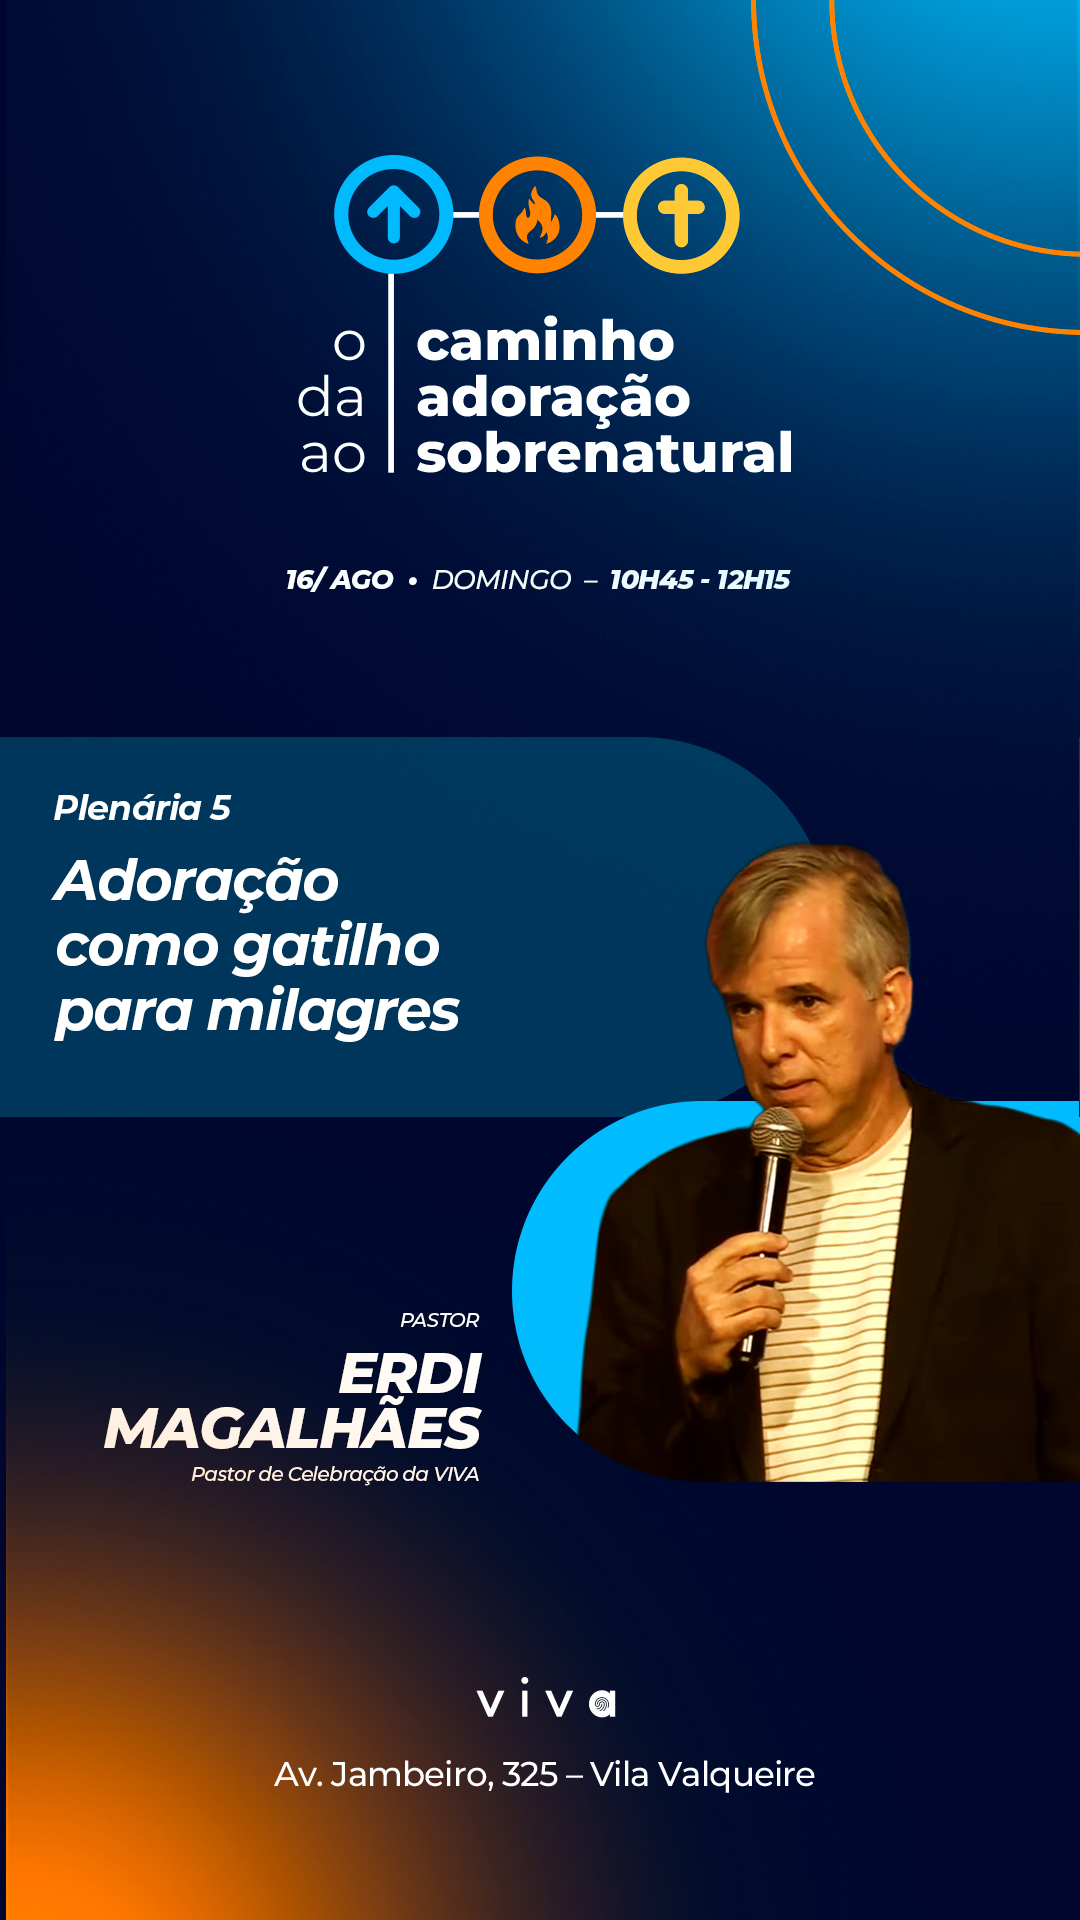
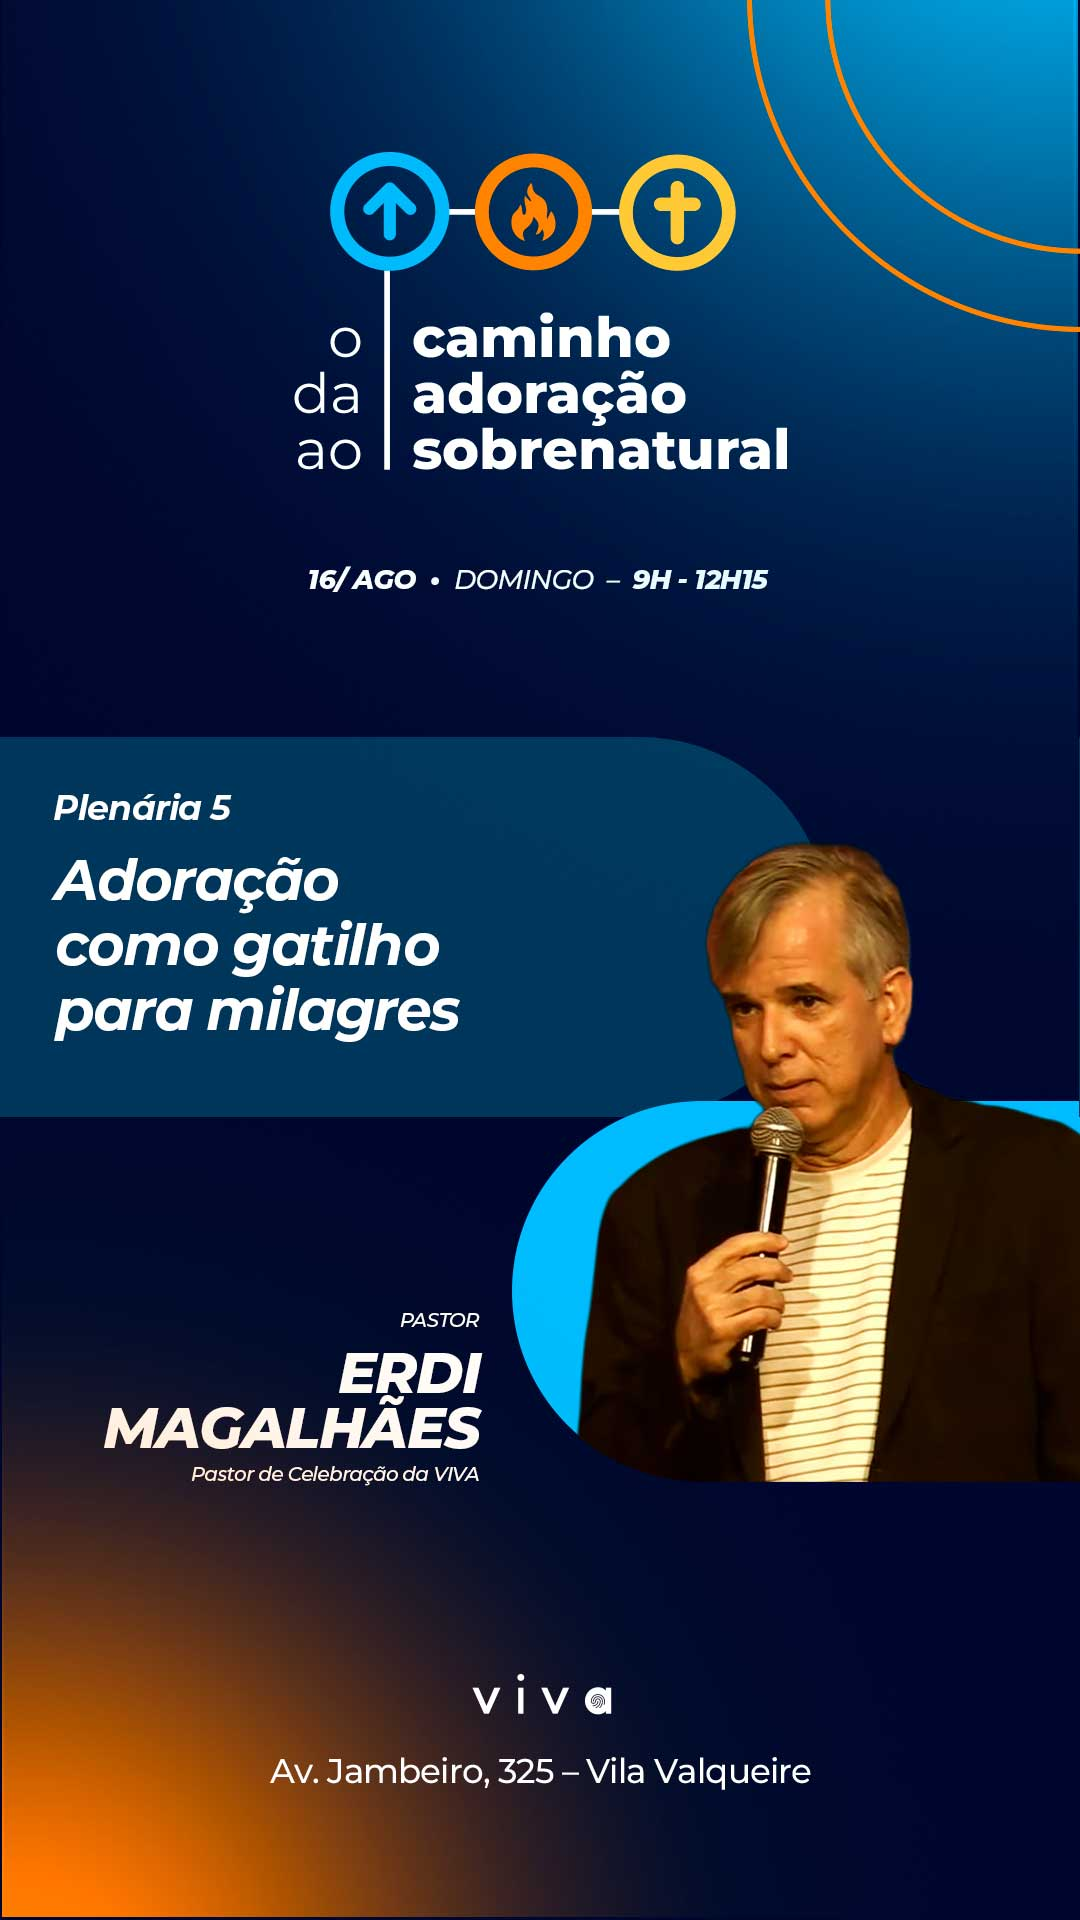
atualização geral 26 julho

diff --git a/index.html b/index.html
@@ -73,13 +73,13 @@
                 <img src="img/img-home-verti-03.jpg"
                 class="d-block d-md-none home-banner-mobile">
             </div>
-            <!-- IMAGEM 04 -->
+            <!-- IMAGEM 04 
             <div class="carousel-item">
                 <img src="img/img-home-hori-04.jpg"
                 class="d-none d-md-block home-banner">
                 <img src="img/img-home-verti-04.jpg"
                 class="d-block d-md-none home-banner-mobile">
-            </div>
+            </div>-->
             <!-- IMAGEM 05 -->
             <div class="carousel-item">
                 <img src="img/img-home-hori-05.jpg"
@@ -240,11 +240,6 @@
                         <div class="prog-author">Pr. Marcelo Santos</div>
                     </div>
                     <div class="programacao-item">
-                        <div class="prog-date">15 / AGO • SÁBADO  |  9H - 12h</div>
-                        <div class="prog-desc"><strong>Cafezão DNA Rio de Janeiro</strong></div>
-                        <div class="prog-author">Pr. André Iglesias / Pr. Lívio Renato</div>
-                    </div>
-                    <div class="programacao-item">
                         <div class="prog-date">15 / AGO • SÁBADO  |  18H - 21H30</div>
                         <div class="prog-desc"><strong>Plenária 2 • A base do acesso: o Caminho aberto – Jesus Cristo</strong></div>
                         <div class="prog-author mb-2">Pr. André Iglesias</div>
@@ -255,18 +250,15 @@
                 <!-- Coluna Direita -->
                 <div class="col-lg-6">
                     <div class="programacao-item">
-                        <div class="prog-date">16 / AGO • DOMINGO  |  9H - 10H30</div>
+                        <div class="prog-date">16 / AGO • DOMINGO  |  9H - 12h15</div>
                         <div class="prog-desc"><strong>Plenária 4 • A presença que manifesta o Sobrenatural</strong></div>
-                        <div class="prog-author">Pr. Welington Ribeiro</div>
-                    </div>
-                    <div class="programacao-item">
-                        <div class="prog-date">16 / AGO • DOMINGO  |  10H45 - 12H15</div>
+                        <div class="prog-author mb-2">Pr. Welington Ribeiro</div>
                         <div class="prog-desc"><strong>Plenária 5 • Adoração como gatilho para milagres</strong></div>
                         <div class="prog-author">Pr. Erdi Magalhães</div>
                     </div>
                     <div class="programacao-item">
                         <div class="prog-date">16 / AGO • DOMINGO  |  18H30 - 21h</div>
-                        <div class="prog-desc"><strong>Plenária 6 • O vislumbre da eternidade</strong></div>
+                        <div class="prog-desc"><strong>Festa da Multiplicação – encontro de todas as células<br>Plenária 6 • O vislumbre da eternidade</strong></div>
                         <div class="prog-author">Pr. Lívio Renato</div>
                     </div>
                 </div>
